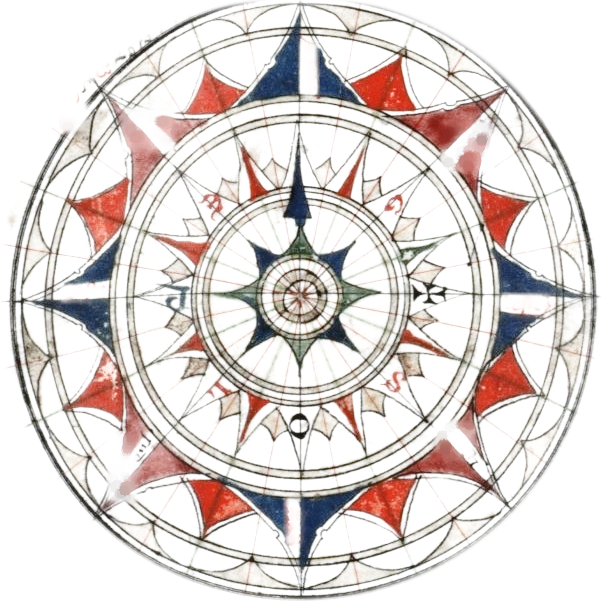
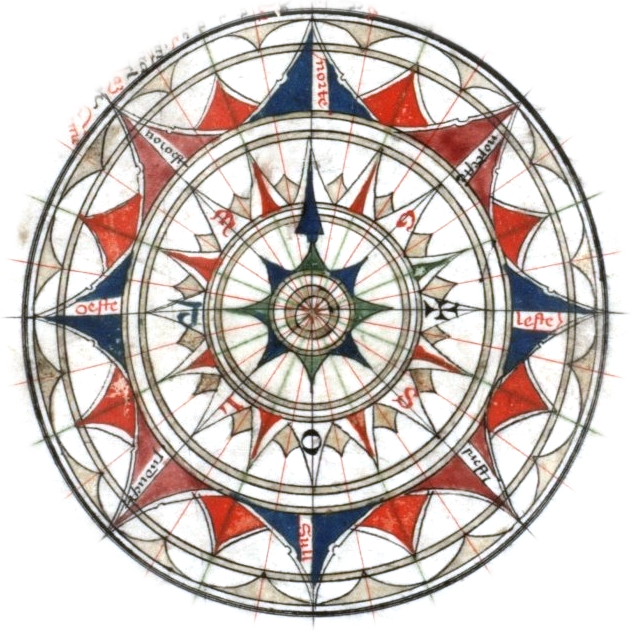
feat(packs): the Aguiar 1492 rose as a patch, its edge feathered (#111)

diff --git a/docs/aguiar/README.md b/docs/aguiar/README.md
@@ -1,0 +1,26 @@
+# The Aguiar 1492 rose as a patch (#111)
+
+`rose-aguiar` of the `scanned` pack, re-keyed from ink levels to a patch. The scan is
+[Jorge_Aguiar_Wind_rose.jpg](https://upload.wikimedia.org/wikipedia/commons/8/8f/Jorge_Aguiar_Wind_rose.jpg)
+(Jorge de Aguiar, 1492, Beinecke Library, Yale; 711 x 720, public domain); crop (25,50)-(695,720), widened from
+(55,80)-(665,690) because the old crop met the outer ring at its edge.
+
+![raw crop, then the sprite, both multiplied onto parchment at map size](steps.png)
+
+`steps.png`: the raw crop on the left, the sprite on the right, both multiplied onto parchment at the width the map
+draws them. `rose-aguiar.raw.png`, `.key.png` and `.cut.png` are the images behind it.
+
+It was keyed by ink levels with nine erase-by-closing boxes over the wind names, which thinned the red, blue and
+green washes and took the lettering out. Now the whole disc inside the outer ring is the sprite, its paper
+(`#e9e6d2`, the vellum's own) divided out so the renderer's multiply sinks it into the parchment. The `dark`, `level`
+and `clean` fields are gone: `norte`, `oeste`, `leste`, `sull` and the petal inscriptions stay as drawn.
+
+**Edge: a feather, not erase boxes.** The ring is the only outline (a circle of radius 308, centre (335,331) in the
+crop, just outside the heavy outer ring), feathered 4 px (`circleFeather`).
+
+Visual pass: the star, the three rings, the vellum between the rhumbs, the washes and the lettering all survive.
+Absent from the sprite, and why:
+
+- the rhumb lines running out past the ring, and the coast lettering at the top left and top right: outside the ring, so
+  surround. A sliver of the top-left lettering's feather remains inside the circle where the text meets the ring.
+- the scan's paper tone outside the ring: surround.
